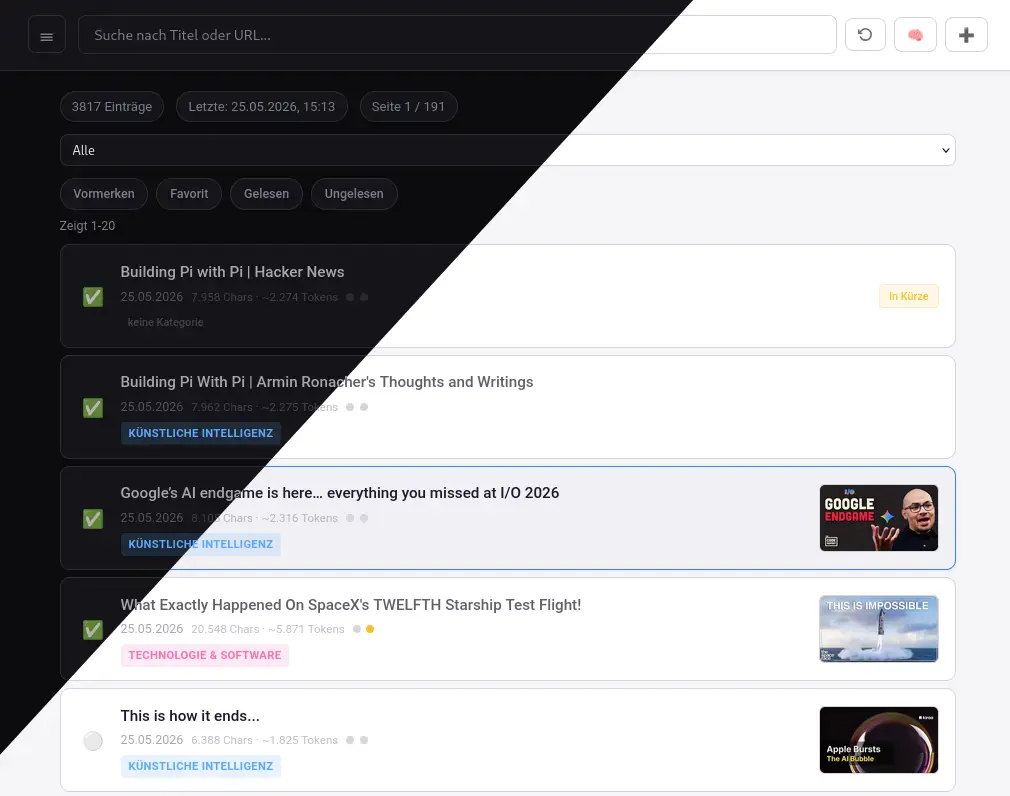
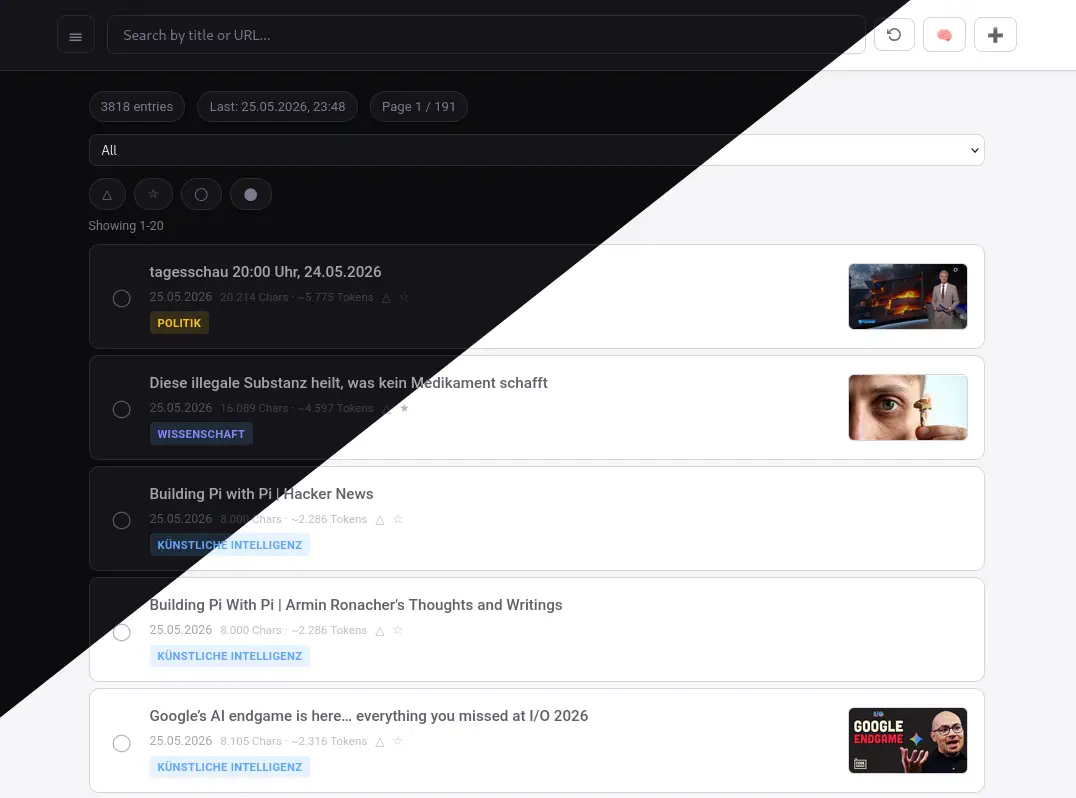
visuals

diff --git a/templates/index.html b/templates/index.html
@@ -593,7 +593,7 @@
             font-weight: 700;
             margin-bottom: 0.5rem;
             line-height: 1.3;
-            color: #f0f0f5;
+            color: var(--text);
         }
 
         .detail-meta {
@@ -756,7 +756,7 @@
             margin-bottom: 0.75rem;
             font-weight: 600;
             line-height: 1.3;
-            color: #f0f0f5;
+            color: var(--text);
         }
 
         .markdown-body h1 { font-size: 1.5rem; border-bottom: 1px solid var(--border); padding-bottom: 0.4rem; }
@@ -768,7 +768,7 @@
         .markdown-body a { color: var(--primary); text-decoration: none; }
         .markdown-body a:hover { text-decoration: underline; color: var(--primary-hover); }
 
-        .markdown-body strong { font-weight: 600; color: #f0f0f5; }
+        .markdown-body strong { font-weight: 600; color: var(--text); }
 
         .markdown-body ul, .markdown-body ol {
             margin-bottom: 1rem;
@@ -828,7 +828,7 @@
 
         .markdown-body th {
             font-weight: 600;
-            color: #f0f0f5;
+            color: var(--text);
         }
 
         .markdown-body tbody tr:nth-child(even) {
@@ -1045,7 +1045,7 @@
         .readme-header h3 {
             font-size: 1.1rem;
             font-weight: 600;
-            color: #f0f0f5;
+            color: var(--text);
         }
 
         .readme-close {
@@ -1292,7 +1292,7 @@
         .progress-title {
             font-size: 0.85rem;
             font-weight: 600;
-            color: #f0f0f5;
+            color: var(--text);
             display: flex; align-items: center; gap: 0.4rem;
         }
         .progress-close {

diff --git a/README.md b/README.md
@@ -1,6 +1,7 @@
 # FoundAItion – Link Collection & AI Summarizer
 
-![Screenshot](assets/screenshot_01.webp)
+![Screenshot_List](assets/screenshot_01.webp)
+![Screenshot_Detail](assets/screenshot_02.webp)
 
 A **single-binary web application** for collecting, managing, and summarizing links with AI. Built with Go – no npm, no Docker, no external runtime required.
 